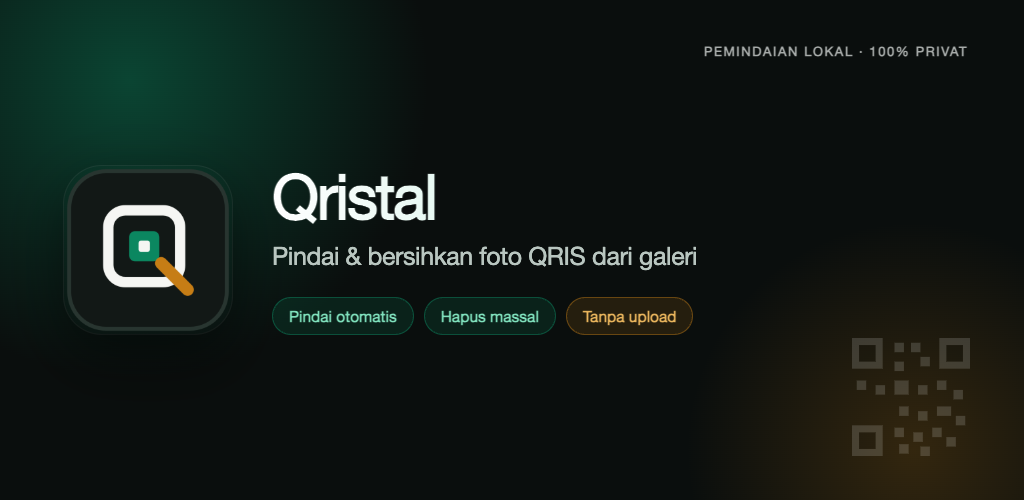
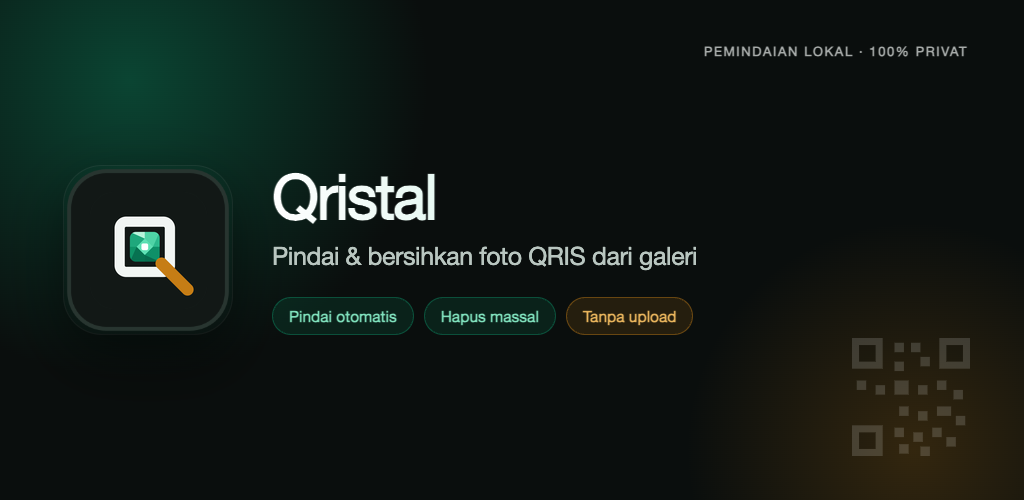
feat(brand): persegi hijau pada ikon jadi kristal berfaset
- AppLogo painter: 8 faset tepi + meja tengah (siluet persegi membulat tetap),
  clip RRect 3.2, kilau putih diperkecil 3.6 unit
- Palet faset kontras diagonal (mint kiri-atas -> emerald gelap kanan-bawah)
  agar tetap terbaca pada ukuran kecil
- tools/generate_icon.py: generator ikon dari geometri yang sama
  (5 mipmap Android, 19 AppIcon iOS, preview 1024/192/48, mark transparan)
- site/feature-graphic-1024x500.png: logo diperbarui

Changed region(s): [[0.0938, 0.39, 0.1875, 0.6]]

diff --git a/lib/widgets/app_logo.dart b/lib/widgets/app_logo.dart
@@ -55,7 +55,6 @@ class _QFiducialLogoPainter extends CustomPainter {
     final scale = size.width / 64.0;
 
     final frameColor = isDark ? AppTheme.textLight : AppTheme.textDark;
-    const emeraldColor = AppTheme.qrisGreen;
     const brassColor = AppTheme.qrAmber;
 
     // 1. Outer Q Frame (x=11, y=11, w=38, h=38, rx=9, strokeWidth=5.5)
@@ -71,23 +70,23 @@ class _QFiducialLogoPainter extends CustomPainter {
       ..strokeJoin = StrokeJoin.round;
     canvas.drawRRect(outerRect, framePaint);
 
-    // 2. Inner Finder Square in Verification Emerald (x=22, y=22, w=16, h=16, rx=3)
-    final innerRect = RRect.fromRectAndRadius(
+    // 2. Inner Finder Square — kini kristal berfaset (siluet persegi tetap)
+    final crystalRect = RRect.fromRectAndRadius(
       Rect.fromLTWH(22 * scale, 22 * scale, 16 * scale, 16 * scale),
       Radius.circular(3.2 * scale),
     );
-    final emeraldPaint = Paint()
-      ..color = emeraldColor
-      ..style = PaintingStyle.fill;
-    canvas.drawRRect(innerRect, emeraldPaint);
+    canvas.save();
+    canvas.clipRRect(crystalRect);
+    _paintCrystal(canvas, scale);
+    canvas.restore();
 
-    // 3. Center Fiducial Pip (x=27, y=27, w=6, h=6, rx=1.2)
+    // 3. Center Glint — kilau kecil di tengah meja kristal
     final pipRect = RRect.fromRectAndRadius(
-      Rect.fromLTWH(27 * scale, 27 * scale, 6 * scale, 6 * scale),
-      Radius.circular(1.2 * scale),
+      Rect.fromLTWH(28.2 * scale, 28.2 * scale, 3.6 * scale, 3.6 * scale),
+      Radius.circular(0.9 * scale),
     );
     final pipPaint = Paint()
-      ..color = isDark ? AppTheme.textLight : Colors.white
+      ..color = Colors.white
       ..style = PaintingStyle.fill;
     canvas.drawRRect(pipRect, pipPaint);
 
@@ -108,4 +107,69 @@ class _QFiducialLogoPainter extends CustomPainter {
   bool shouldRepaint(covariant _QFiducialLogoPainter oldDelegate) {
     return oldDelegate.isDark != isDark;
   }
+}
+
+/// Palet faset kristal (emerald). Terang dari kiri-atas.
+class _Crystal {
+  // Kontras sengaja lebar: pada ukuran 5-6 px (logo app bar) pola faset
+  // melebur, tetapi gradasi terang-kiri-atas ke gelap-kanan-bawah tetap
+  // terbaca sebagai kristal, bukan kotak hijau polos.
+  static const Color tl = Color(0xFFB7F5DC);
+  static const Color tr = Color(0xFF4FD3A6);
+  static const Color rt = Color(0xFF2CB98D);
+  static const Color rb = Color(0xFF0E9068);
+  static const Color br = Color(0xFF086B4E);
+  static const Color bl = Color(0xFF077251);
+  static const Color lb = Color(0xFF0F9468);
+  static const Color lt = Color(0xFF1FA87C);
+  static const Color table = Color(0xFF5FE0B4);
+}
+
+/// Menggambar persegi kristal berfaset di dalam area 22..38 (skala 64).
+///
+/// Siluet tetap persegi membulat; bagian dalam dipecah menjadi 8 faset tepi +
+/// 1 meja tengah, masing-masing satu warna datar (tanpa gradien).
+void _paintCrystal(Canvas canvas, double scale) {
+  Offset p(double x, double y) => Offset(x * scale, y * scale);
+
+  void facet(List<Offset> points, Color color) {
+    final path = Path()..moveTo(points.first.dx, points.first.dy);
+    for (final point in points.skip(1)) {
+      path.lineTo(point.dx, point.dy);
+    }
+    path.close();
+    canvas.drawPath(
+      path,
+      Paint()
+        ..color = color
+        ..style = PaintingStyle.fill,
+    );
+  }
+
+  // Titik kunci (koordinat 64-space).
+  final tlCorner = p(22, 22);
+  final trCorner = p(38, 22);
+  final brCorner = p(38, 38);
+  final blCorner = p(22, 38);
+  final topMid = p(30, 22);
+  final rightMid = p(38, 30);
+  final bottomMid = p(30, 38);
+  final leftMid = p(22, 30);
+  final n = p(30, 25.6);
+  final e = p(34.4, 30);
+  final s = p(30, 34.4);
+  final w = p(25.6, 30);
+
+  // 8 faset tepi.
+  facet([tlCorner, topMid, n, w], _Crystal.tl);
+  facet([topMid, trCorner, e, n], _Crystal.tr);
+  facet([trCorner, e, rightMid], _Crystal.rt);
+  facet([rightMid, brCorner, s, e], _Crystal.rb);
+  facet([brCorner, bottomMid, s], _Crystal.br);
+  facet([bottomMid, blCorner, w, s], _Crystal.bl);
+  facet([blCorner, leftMid, w], _Crystal.lb);
+  facet([leftMid, tlCorner, n, w], _Crystal.lt);
+
+  // Meja tengah (diamond).
+  facet([n, e, s, w], _Crystal.table);
 }

diff --git a/tools/generate_icon.py b/tools/generate_icon.py
@@ -1,0 +1,194 @@
+#!/usr/bin/env python3
+"""Generator ikon Qristal.
+
+Menggambar ulang ikon aplikasi dari geometri yang sama dengan
+`lib/widgets/app_logo.dart` (ruang koordinat 64 unit):
+
+  - latar persegi membulat gelap
+  - bingkai putih (finder frame)
+  - persegi kristal berfaset (siluet persegi, isi 8 faset + meja)
+  - kilau putih kecil di tengah
+  - ekor brass diagonal
+
+Output: mipmap Android (5 densitas) + AppIcon iOS + preview 1024.
+Jalankan: python3 tools/generate_icon.py
+"""
+
+from __future__ import annotations
+
+import json
+import os
+from pathlib import Path
+
+from PIL import Image, ImageDraw
+
+# Pillow >=10 memindahkan konstanta resampling ke enum Resampling.
+RESAMPLE = getattr(Image, "Resampling", Image).LANCZOS
+
+ROOT = Path(__file__).resolve().parent.parent
+RES = ROOT / "android/app/src/main/res"
+IOS = ROOT / "ios/Runner/Assets.xcassets/AppIcon.appiconset"
+
+# --- palet (samakan dengan AppTheme) ---------------------------------------
+BG = (0x12, 0x18, 0x16)          # surfaceDark
+BG_BORDER = (0x23, 0x2D, 0x29)   # borderDark
+FRAME = (0xF1, 0xF5, 0xF3)       # textLight
+BRASS = (0xC6, 0x7D, 0x15)       # qrAmber
+WHITE = (255, 255, 255)
+
+CRYSTAL = {
+    "tl": (0xB7, 0xF5, 0xDC),
+    "tr": (0x4F, 0xD3, 0xA6),
+    "rt": (0x2C, 0xB9, 0x8D),
+    "rb": (0x0E, 0x90, 0x68),
+    "br": (0x08, 0x6B, 0x4E),
+    "bl": (0x07, 0x72, 0x51),
+    "lb": (0x0F, 0x94, 0x68),
+    "lt": (0x1F, 0xA8, 0x7C),
+    "table": (0x5F, 0xE0, 0xB4),
+}
+
+UNIT = 64.0          # ruang koordinat desain
+SS = 4               # supersampling untuk antialias
+
+
+def render(master_px: int = 1024, background: bool = True) -> Image.Image:
+    """Render ikon pada ukuran master (px) dengan supersampling."""
+    size = master_px * SS
+    img = Image.new("RGBA", (size, size), (0, 0, 0, 0))
+    d = ImageDraw.Draw(img)
+    s = size / UNIT
+
+    def xy(x: float, y: float) -> tuple[float, float]:
+        return (x * s, y * s)
+
+    # 1. Latar persegi membulat (opsional — untuk logo transparan)
+    if background:
+        d.rounded_rectangle(
+            [0, 0, size - 1, size - 1],
+            radius=14.0 * s,  # 22% dari 64
+            fill=BG,
+        )
+
+    # 2. Bingkai putih (RRect 11,11,38,38 r=9, stroke 5.5)
+    stroke = 5.5 * s
+    inset = stroke / 2
+    d.rounded_rectangle(
+        [11 * s + inset, 11 * s + inset, 49 * s - inset, 49 * s - inset],
+        radius=9 * s - inset,
+        outline=FRAME,
+        width=int(round(stroke)),
+    )
+
+    # 3. Persegi kristal (22..38) — digambar di layer terpisah lalu di-clip
+    crystal = Image.new("RGBA", (size, size), (0, 0, 0, 0))
+    cd = ImageDraw.Draw(crystal)
+
+    tl_c = xy(22, 22)
+    tr_c = xy(38, 22)
+    br_c = xy(38, 38)
+    bl_c = xy(22, 38)
+    top_m = xy(30, 22)
+    right_m = xy(38, 30)
+    bottom_m = xy(30, 38)
+    left_m = xy(22, 30)
+    n = xy(30, 25.6)
+    e = xy(34.4, 30)
+    south = xy(30, 34.4)
+    w = xy(25.6, 30)
+
+    facets = [
+        ([tl_c, top_m, n, w], CRYSTAL["tl"]),
+        ([top_m, tr_c, e, n], CRYSTAL["tr"]),
+        ([tr_c, e, right_m], CRYSTAL["rt"]),
+        ([right_m, br_c, south, e], CRYSTAL["rb"]),
+        ([br_c, bottom_m, south], CRYSTAL["br"]),
+        ([bottom_m, bl_c, w, south], CRYSTAL["bl"]),
+        ([bl_c, left_m, w], CRYSTAL["lb"]),
+        ([left_m, tl_c, n, w], CRYSTAL["lt"]),
+        ([n, e, south, w], CRYSTAL["table"]),
+    ]
+    for points, color in facets:
+        cd.polygon(points, fill=color)
+
+    # Clip ke persegi membulat r=3.2
+    mask = Image.new("L", (size, size), 0)
+    md = ImageDraw.Draw(mask)
+    md.rounded_rectangle(
+        [22 * s, 22 * s, 38 * s, 38 * s],
+        radius=3.2 * s,
+        fill=255,
+    )
+    img.paste(crystal, (0, 0), mask)
+
+    # 4. Kilau putih kecil (3.6 unit di tengah)
+    glint = 3.6 * s
+    gx, gy = 30 * s - glint / 2, 30 * s - glint / 2
+    d.rounded_rectangle(
+        [gx, gy, gx + glint, gy + glint],
+        radius=0.9 * s,
+        fill=WHITE,
+    )
+
+    # 5. Ekor brass (39,39 -> 53,53, stroke 6.5, ujung membulat)
+    tail_w = 6.5 * s
+    x1, y1 = 39 * s, 39 * s
+    x2, y2 = 53 * s, 53 * s
+    d.line([(x1, y1), (x2, y2)], fill=BRASS, width=int(round(tail_w)))
+    r = tail_w / 2
+    for cx, cy in ((x1, y1), (x2, y2)):
+        d.ellipse([cx - r, cy - r, cx + r, cy + r], fill=BRASS)
+
+    return img.resize((master_px, master_px), RESAMPLE)
+
+
+ANDROID_SIZES = {
+    "mipmap-mdpi": 48,
+    "mipmap-hdpi": 72,
+    "mipmap-xhdpi": 96,
+    "mipmap-xxhdpi": 144,
+    "mipmap-xxxhdpi": 192,
+}
+
+
+def main() -> None:
+    master = render(1024)
+
+    # Preview untuk review
+    out_dir = ROOT / "assets/brand"
+    out_dir.mkdir(parents=True, exist_ok=True)
+    master.save(out_dir / "app_icon_1024.png")
+    master.resize((192, 192), RESAMPLE).save(out_dir / "app_icon_192.png")
+    master.resize((48, 48), RESAMPLE).save(out_dir / "app_icon_48.png")
+
+    # Mark transparan (tanpa latar) untuk feature graphic & kebutuhan lain
+    mark = render(1024, background=False)
+    mark.save(out_dir / "mark_transparent_1024.png")
+
+    # Android mipmaps (legacy, full-bleed)
+    for folder, px in ANDROID_SIZES.items():
+        target = RES / folder / "ic_launcher.png"
+        master.resize((px, px), RESAMPLE).save(target)
+        print(f"✓ {target.relative_to(ROOT)} ({px}px)")
+
+    # iOS AppIcon — ukuran dibaca dari Contents.json
+    contents = IOS / "Contents.json"
+    if contents.exists():
+        data = json.loads(contents.read_text())
+        for image in data.get("images", []):
+            filename = image.get("filename")
+            size = image.get("size")
+            scale = image.get("scale", "1x")
+            if not filename or not size:
+                continue
+            base = float(size.split("x")[0])
+            factor = float(scale.rstrip("x"))
+            px = int(round(base * factor))
+            master.resize((px, px), RESAMPLE).save(IOS / filename)
+        print(f"✓ {len(data.get('images', []))} ikon iOS")
+
+    print("Selesai.")
+
+
+if __name__ == "__main__":
+    main()
